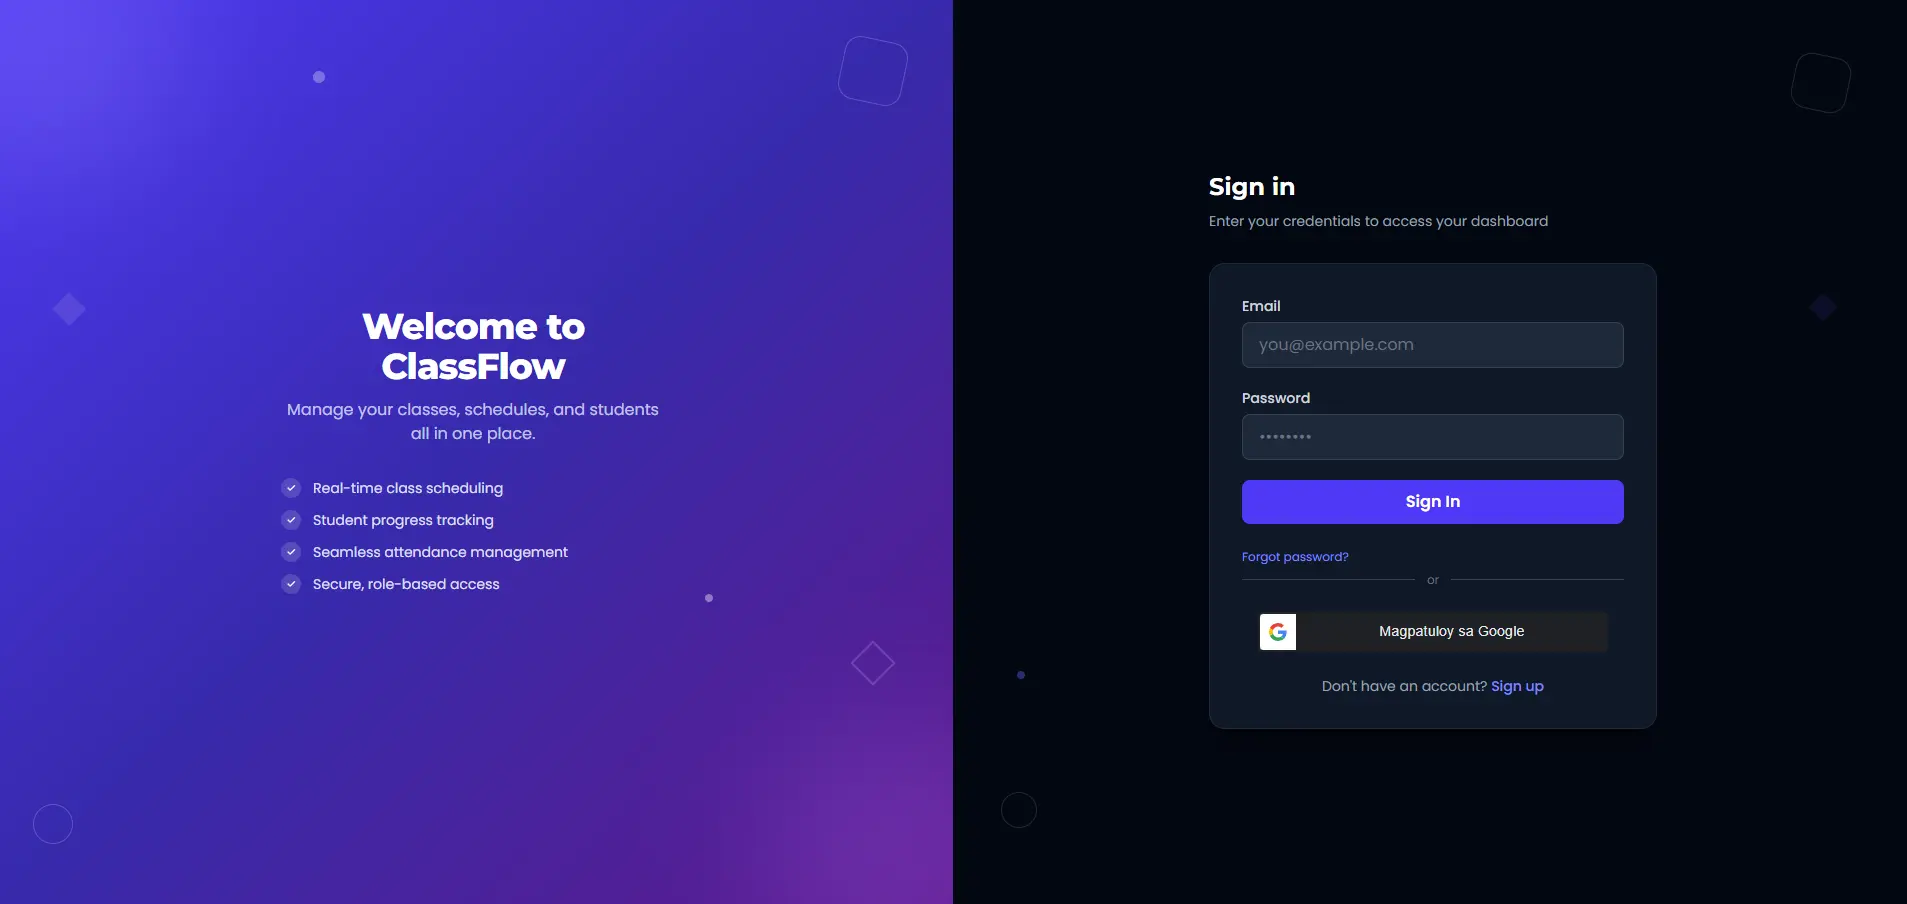
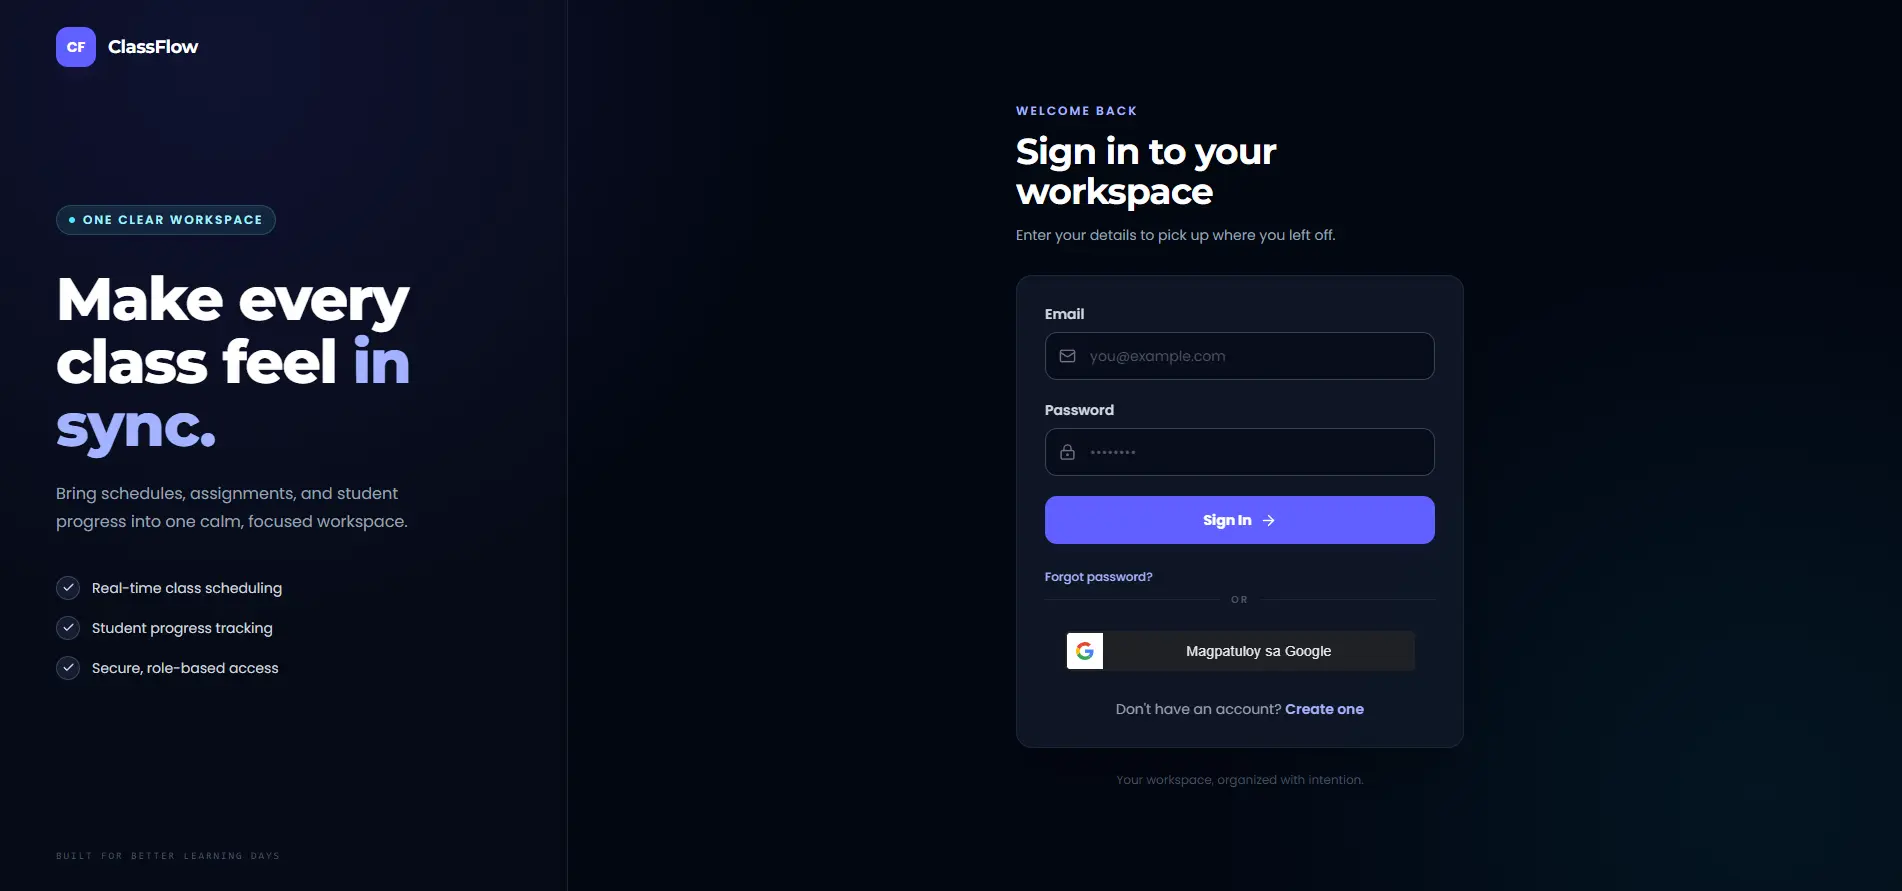
Update ClassFlow login screenshot
Refreshes the ClassFlow `Login.webp` asset and updates the generated `dist/index.html` asset references to match the rebuilt frontend bundle.

diff --git a/dist/index.html b/dist/index.html
@@ -10,8 +10,8 @@
 "
     />
     <title>Karl's Portfolio</title>
-    <script type="module" crossorigin src="/assets/index-Cp0FMaQv.js"></script>
-    <link rel="stylesheet" crossorigin href="/assets/index-BuH1oPhF.css">
+    <script type="module" crossorigin src="/assets/index-Arq2t7lg.js"></script>
+    <link rel="stylesheet" crossorigin href="/assets/index-C7OHW-5q.css">
   </head>
   <body>
     <div id="root"></div>
